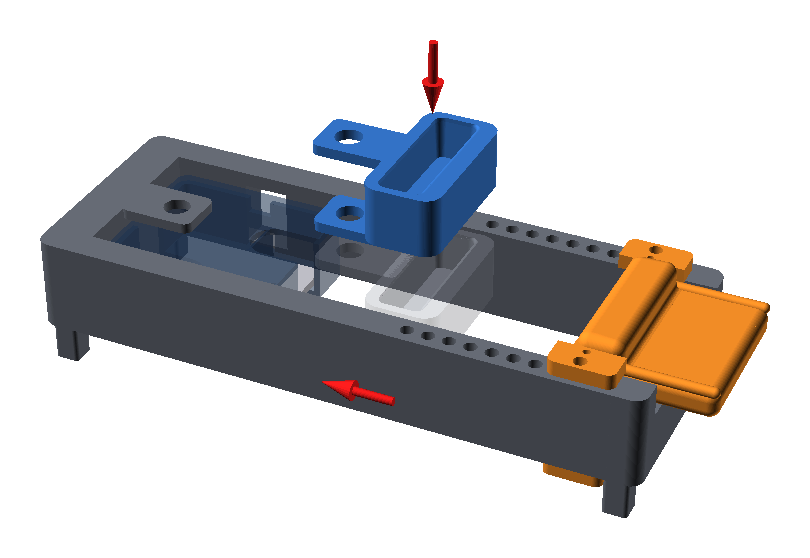
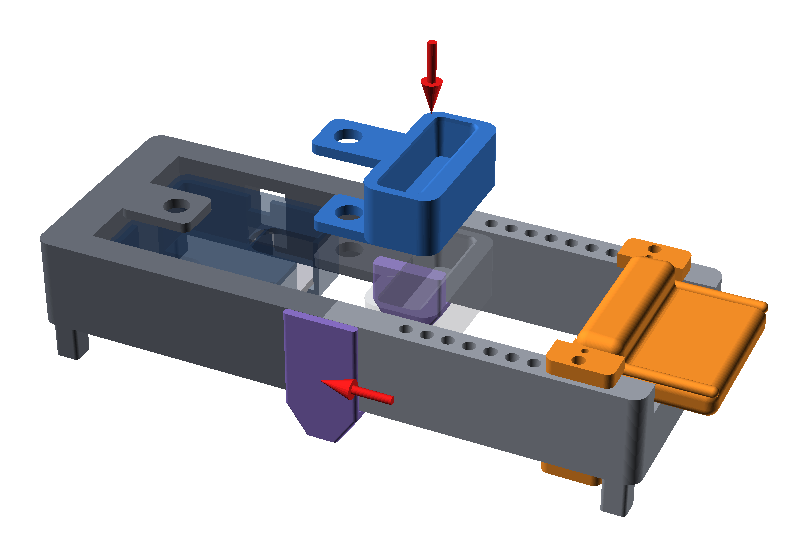
docs: show split frame and seam braces in illustrations

diff --git a/docs/illustrations/make-legend.py b/docs/illustrations/make-legend.py
@@ -8,7 +8,7 @@ from pathlib import Path
 from PIL import Image, ImageDraw, ImageFont
 
 ITEMS = [
-    ("Frame (left / right half)", [(0.40, 0.42, 0.46), (0.52, 0.54, 0.58)]),
+    ("Frame (left / right half)", [(0.40, 0.42, 0.46), (0.58, 0.60, 0.64)]),
     ("Finger grip", [(0.20, 0.45, 0.78)]),
     ("Wrist rest", [(0.95, 0.55, 0.15)]),
     ("Crimpdeq case (see-through)", [(0.12, 0.20, 0.32)]),
@@ -16,6 +16,7 @@ ITEMS = [
     ("Printed bolts, nuts, washers", [(0.82, 0.82, 0.86)]),
     ("Printed wrist pins", [(0.45, 0.80, 0.45)]),
     ("Frame pegs", [(0.20, 0.75, 0.70)]),
+    ("Seam braces", [(0.52, 0.42, 0.76)]),
     ("Paperclip retainer", [(0.72, 0.42, 0.18)]),
     ("Glue faces", [(0.85, 0.20, 0.80)]),
     ("Movement arrows", [(0.90, 0.10, 0.10)]),

diff --git a/docs/src/fit-prototype/overview.md b/docs/src/fit-prototype/overview.md
@@ -10,7 +10,9 @@ two supports:
 - a **wrist rest** (orange) with a palm bolster and heel deck, which slides
   along the frame rails and locks into one of nine positions
 
-The **frame** (grey) holds the left load-cell eye in a fixed clevis. The
+The **frame** (grey) holds the left load-cell eye in a fixed clevis. It is
+printed as two halves, dark and light grey in the pictures, glued together
+and reinforced by two **seam braces** (violet) under the rail joints. The
 USB port and switch stay reachable through a window in the side rail.
 
 ![Assembled fit prototype](../images/overview.png)

diff --git a/docs/src/fit-prototype/frame-and-wrist-rest.md b/docs/src/fit-prototype/frame-and-wrist-rest.md
@@ -44,6 +44,8 @@
 
 ## Glue the seam braces
 
+![Fitting the seam braces from below across both rail joints](../images/glue_braces.png)
+
 Each rail gets one brace across its joint. The brace wraps the rail from
 below like a U: a splint on the outer face, a slab under the rail and a post
 on the inner face, all on a leg that stands on the table next to the feet.
